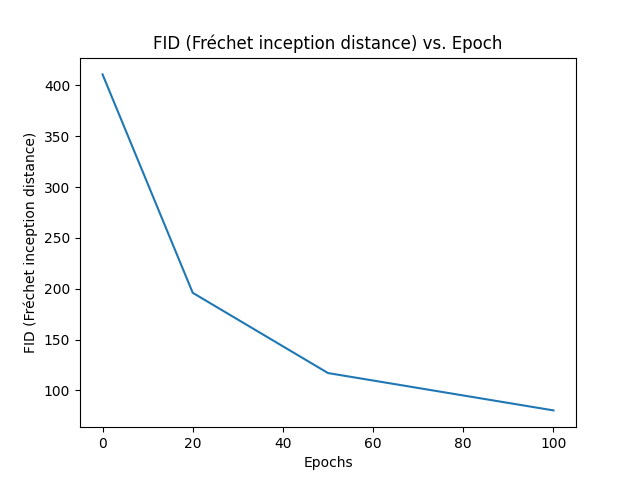
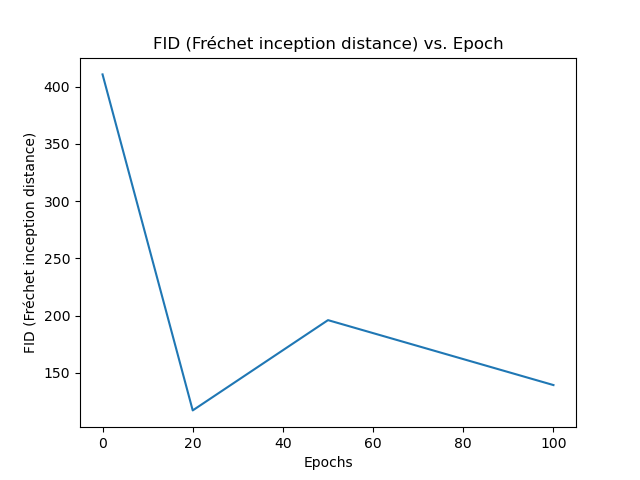
Updated

diff --git a/README.md b/README.md
@@ -159,10 +159,10 @@ We computed the [FID][FID] using the generated images against the training data 
 
 | Condition  | FID score  |
 |---|---|
-| Random noise      | 410.870     |
-| Epoch 20          |    117.015  |
-| Epoch 50          |   195.967   |
-| Epoch 100         | TBD     |
+| Random noise      | 410.870 |
+| Epoch 20          | 117.015 |
+| Epoch 50          | 195.967 |
+| Epoch 100         | 139.16  |
 
 
 The figure below shows how the loss function plateaus after the approximately 500 iterations. With a batch size of 64, each epoch is around 1563 iterations. The loss function eventually stablizes at around 0.12 to 0.18.
